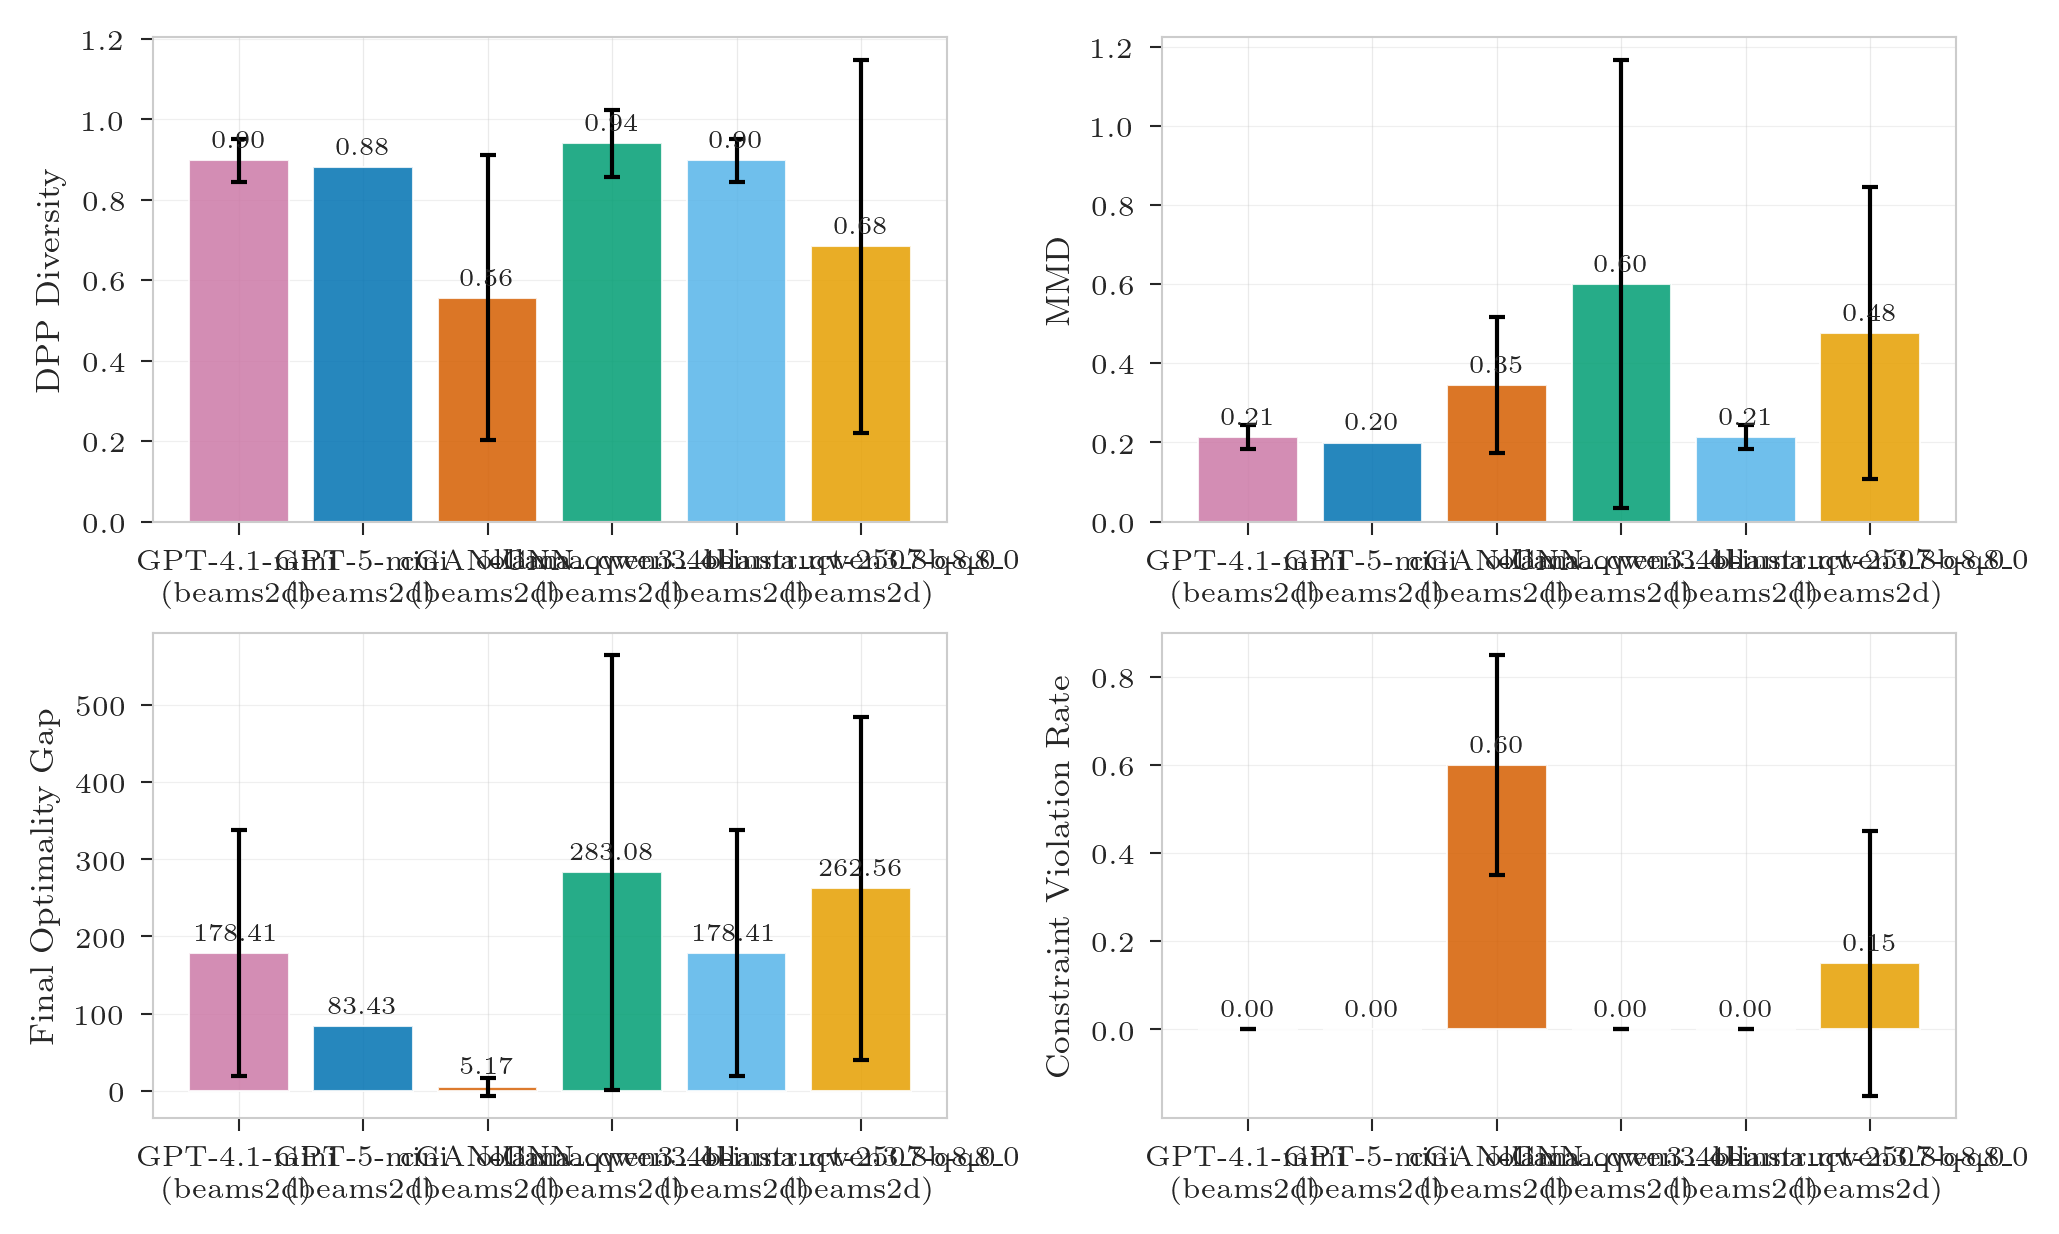
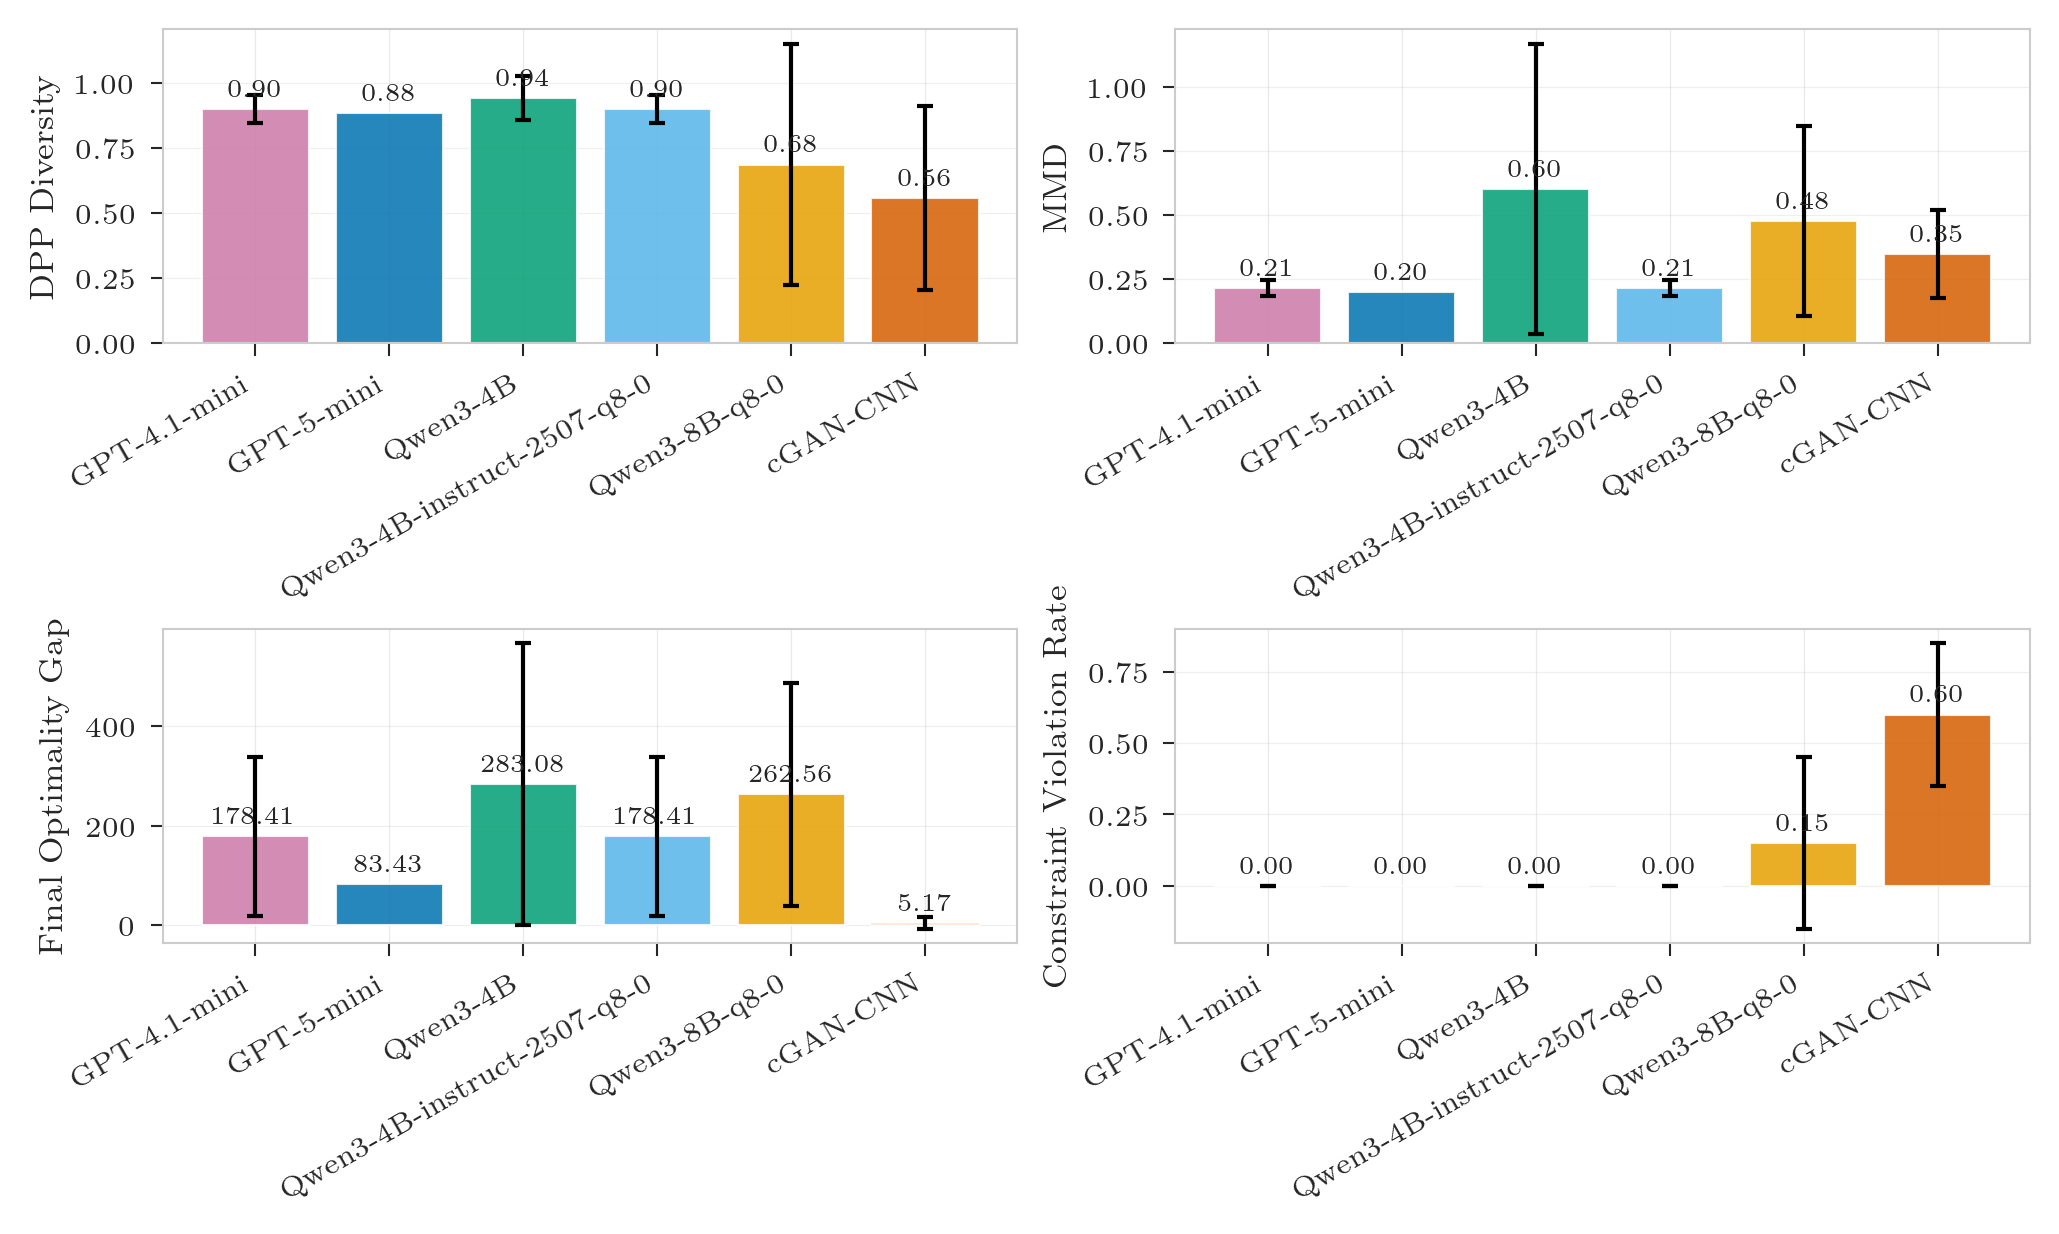
Rotate model name in metric comparison plot

diff --git a/benchmarks/evaluations/plots/plot_metrics_comparison.py b/benchmarks/evaluations/plots/plot_metrics_comparison.py
@@ -80,7 +80,12 @@ def plot_metrics_comparison(combined_df, output_path=None, output_dir=None):
                 linewidth=0.5,
             )
             ax.set_xticks(x)
-            ax.set_xticklabels(labels, fontsize=font_sizes["tick_label"])
+            ax.set_xticklabels(
+                labels,
+                fontsize=font_sizes["tick_label"],
+                rotation=30,
+                ha="right",
+            )
             ax.set_ylabel(ylabel)
             ax.grid(True, axis="y", alpha=0.3)
 
